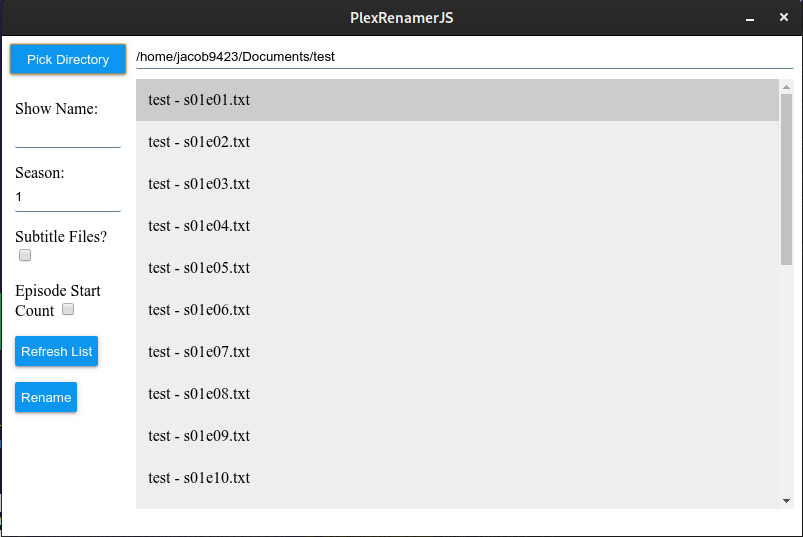
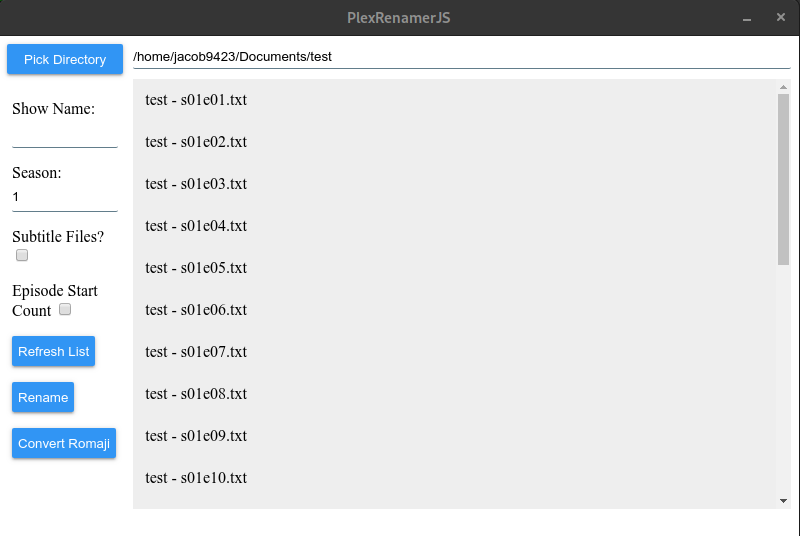
finishing up

diff --git a/README.MD b/README.MD
@@ -1,7 +1,9 @@
 # PlexRenamer Electron Version
 Plex renamer is now on Electron. Completly changing the language from C# To JavaScript. The benefit of this being that the program now works on Windows and Linux (Currently only building for linux. But it will work for windows if electron-builder is configured to build for windows). This will be in it's own repo as it is rewritten in a new language. The C# Version can be found [here](https://github.com/jacob9423/Plex-Renamer). But it won't be updated anymore.
 
-A program that will take a directory of video files and then name them in Plex format
+-------------------------
+
+A program that will take a directory of video files and then name them in the format that Plex wants for files.
 
 This is my project to rename video files (and subtitle files) into plex format.
 
@@ -9,11 +11,10 @@ I was getting tired of renaming all of the files tha I was putting on my plex se
 
 So started this project and it's come a long way. 
 
-The program will let you select the directory that the files are in. Have you type in the name of the show, and allow you to select if
-they are subtitle files. Also the Check button only takes the files that are in the directory and display them to you. I did this for
+The program will let you select the directory that the files are in. Have you type in the name of the show, and allow you to select if they are subtitle files. Also the Check button only takes the files that are in the directory and display them to you. I did this for
 testing but kept it in.
 
-Formating Examples: 
+**Formating Examples:**
 
 Videos:
 
@@ -25,14 +26,19 @@ Example - s01e01.eng.ass
 
 When renaming subtitle files eng is the default language so if you type nothing into it it will automaticly default to english.
 
+**Convert Romanji:**  
+The Convert Romanji feature if for anime only. It uses the [Anilist API](https://github.com/AniList/ApiV2-GraphQL-Docs) to search the Romanji name (or Native Japanese) and converts that to english. If there is no english name it will keep the orginal.  
+
+
 # Screenshot
 (Screenshot shows text files. Those are just my test files. It keeps whatever ext the file has.)
 ![PlexRenamerJS Screenshot](./PlexrenamerJS.png)
 
 # Building
   
-To build this applicaiton you need electron-builder and Node vesrion 12  
+To build this applicaiton you need electron-builder and Node vesrion 12. Make sure to install the dependencies for the project with `npm install`
   
 To install electron-builder use the command `npm install -g electron-builder` After electron builder is install open your terminal in the main diectory of PlexrenamerJS and run `electron-builder` and it will create binarys for Arch and Debian.
-
+  
+To package for windows use the command `electron-builder --win` and it will create a unpacked and installer for the program. (Note will need windows to do this. If on  linux building it for windows you will need wine.)
 
